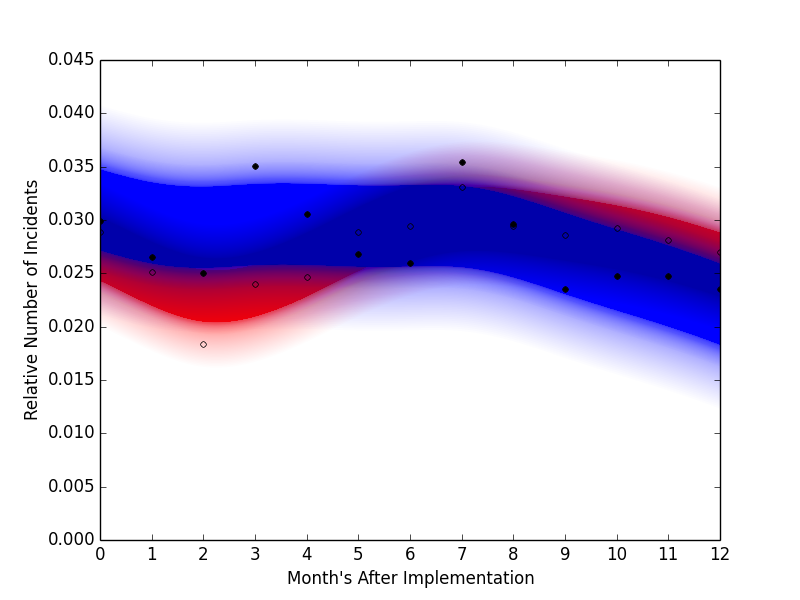
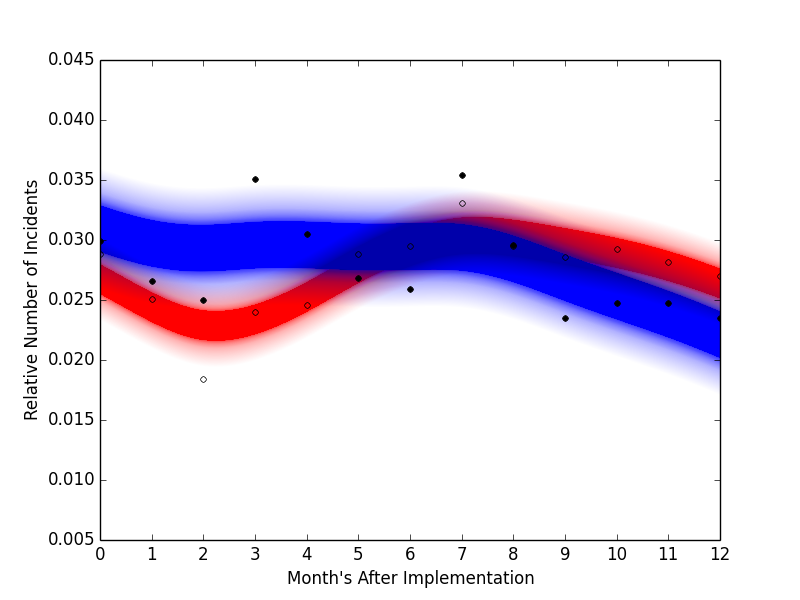
Changes in HTML, add Map, Two Choices from Input

diff --git a/app/templates/output_watchout.html b/app/templates/output_watchout.html
@@ -1,3 +1,5 @@
+<!doctype html>
+
 
 <!DOCTYPE html>
 <html lang="en">
@@ -7,9 +9,6 @@
     <meta name="viewport" content="width=device-width, initial-scale=1">
     <meta name="description" content="">
     <meta name="author" content="">
-    <meta name='viewport' content='initial-scale=1,maximum-scale=1,user-scalable=no' />
-    <script src='https://api.tiles.mapbox.com/mapbox.js/v2.1.5/mapbox.js'></script>
-    <link href='https://api.tiles.mapbox.com/mapbox.js/v2.1.5/mapbox.css' rel='stylesheet' />
     <link rel="icon" href="../../favicon.ico">
 
     <title>TopCop: Crime Intevention Analyzer</title>
@@ -59,27 +58,24 @@
 
   <div class="container">
     <div class="starter-template text-center">
-        <h2>Here's How Your Intervention Stacked Up</h2>
+        <h2>Watch out, {{Crime}} In Your Area Is Prone To:</h2>
         <p></p>
         <p></p>
         <p></p>
-        <h3>Your {{Crime}} Reduction Was Successful In:</h3>
-        <ul class = 'list-unstyled'>{% for name in Lower %}
+        <h3>Average Increased Rates During The:</h3>
+        <ul class = 'list-unstyled'>{% for name in HigherSeasons %}
         <li><h4><font color = 'Blue'>{{name}}</font></h4></li>
         {% endfor %}</ul>
-        <h3>Your {{Crime}} Was Still Greater Than Boston In:</h3>
-        <ul class = 'list-unstyled'>{% for lowername in Higher %}
+        <h3>Average Decreased Rates During The:</h3>
+        <ul class = 'list-unstyled'>{% for lowername in LowerSeasons %}
         <li><h4><font color = 'Red'>{{lowername}}</font></h4></li>
         {% endfor %}</ul>
     </div>
     
   </div> <!-- /.container-->
           
-      <div class="text-center">
-        
-       <h3> {{Crime}} trend over <br>
-       the 12 months post crime implementation</h3>
-       
+      <div class="text-center">     
+       <h3> {{Crime}} Trend Over Previous 3 Years</h3>
       </div>
  
       <div class= "media">
@@ -88,51 +84,34 @@
        </div>
       </div>
       
-      <div class = "start-template text-center" style = 'margin-bottom:50px'>
+      <div class = "start-template text-center">
         <p><font color = 'Blue'>Blue</font> indicates the confidence for your selected area's crime rates<br>
-        <font color = 'Red'>Red</font> indicates the confidence for all of Boston's crime rates<br>
-        </p>
-      </div>
-      
-      <div class = "start-template text-center" style = 'margin-bottom:30px'>
-        <h4> Here Are All The Crimes 12 Months After Your Implementation</h4>
+        <font color = 'Red'>Red</font> indicates the confidence for all of Boston's crime rates</p>
       </div>
     
      
+  
+  
+      <!--<table class="table table-hover">
+      <tr><th>Name</th><th>Country</th><th>Population</th></tr>
+      {% for city in cities %}
+      <tr><td>{{ city['name'] }}</td><td>{{ city['country']}}</td><td> {{ city['population'] }}</td></tr>
+      {% endfor %}
+      </table>
 
-      
- <link 
-        rel="stylesheet" 
-        href="http://cdn.leafletjs.com/leaflet-0.7/leaflet.css"
-    />
+
+     </div><!-- /.container -->
+
+    <!--<div class="container">
+      <div class="starter-template">
+        <h3>Another Result:</h3>
+        <p class="lead">Now we've taken the input and called a function from your package.<br>The result is {{the_result}}</p>
+      </div>-->
 
 
-    <div id="map" style="width: 600px; height: 400px; margin: auto"></div>
+      <script src="https://code.jquery.com/jquery-1.10.2.min.js"></script>
+      <script src="static/js/bootstrap.min.js"></script>
 
-    <script
-        src="http://cdn.leafletjs.com/leaflet-0.7/leaflet.js">
-    </script>
-
-    <script>
-
-	var planes = {{LatLongList|tojson}};
-
-        var map = L.map('map').setView([{{Latitude}},{{Longitude}}], 14);
-        mapLink = 
-            '<a href="http://openstreetmap.org">OpenStreetMap</a>';
-        L.tileLayer(
-            'http://{s}.tile.openstreetmap.org/{z}/{x}/{y}.png', {
-            attribution: '&copy; ' + mapLink + ' Contributors',
-            maxZoom: 18,
-            }).addTo(map);
-
-		for (var i = 0; i < planes.length; i++) {
-			marker = new L.marker([planes[i][1],planes[i][2]])
-				.bindPopup(planes[i][0])
-				.addTo(map);
-		}
-               
-    </script>
 
      </div><!-- /.container -->
 
@@ -144,6 +123,6 @@
     <script src="../../dist/js/bootstrap.min.js"></script>
     <!-- IE10 viewport hack for Surface/desktop Windows 8 bug -->
     <script src="../../assets/js/ie10-viewport-bug-workaround.js"></script>
-    
   </body>
 </html>
+

diff --git a/app/Watchout.py b/app/Watchout.py
@@ -146,15 +146,15 @@ def Watchout(Address,Radius,Crime,Year,Month):
     fig = plt.figure()
     plt.plot(WholeX_train, WholeY_train, 'k.',markerfacecolor='none', markersize=8, label='Observations')
     plt.fill(np.concatenate([wholexrand, wholexrand[::-1]]),
-            np.concatenate([WholeY_pred - 1.9600 * wholesigma,
-                           (WholeY_pred + 1.9600 * wholesigma)[::-1]]),
+            np.concatenate([WholeY_pred - wholesigma,
+                           (WholeY_pred + wholesigma)[::-1]]),
             alpha=.01, facecolor = 'red',ec='None', label='95% confidence interval')
    
    
     plt.plot(X_train, y_train, 'k.', markersize=8, label='Observations')
     plt.fill(np.concatenate([xrand, xrand[::-1]]),
-            np.concatenate([modely_pred - 1.9600 * sigma,
-                           (modely_pred + 1.9600 * sigma)[::-1]]),
+            np.concatenate([modely_pred - sigma,
+                           (modely_pred + sigma)[::-1]]),
             alpha=.01, facecolor = 'blue', ec='None', label='95% confidence interval')
     
     
@@ -170,7 +170,7 @@ def Watchout(Address,Radius,Crime,Year,Month):
     Dicthigher = []
     Dictlower = []
     
-    for i in range(int(Month),len(Reindex_counts)):
+    for i in range(1,36):
 	Radpred, Radmse = RadiusG.predict(i,eval_MSE=True)
 	Allpred, Allmse = AllG.predict(i,eval_MSE=True)
 	if (Radpred - 1.96 * np.sqrt(Radmse)) > (Allpred + 1.96 * np.sqrt(Allmse)):
@@ -183,9 +183,65 @@ def Watchout(Address,Radius,Crime,Year,Month):
 	
 
     for i in range (0,len(monthslower)):
-	Dictlower.append(Monthdict.get(monthslower[i]))	
+	Dictlower.append(Monthdict.get(monthslower[i]))
+    
+    Spring = [3,4,5,15,16,17,27,28,29]
+    Summer = [6,7,8,18,19,20,30,31,32]
+    Fall = [9,10,11,21,22,23,33,34,35]
+    Winter = [0,1,2,12,13,14,24,25,26,36]
+    
+    FallScore = 0
+    SummerScore = 0
+    SpringScore = 0
+    WinterScore = 0
+    
+    HigherSeasons = []
+    LowerSeasons = []
+    
+    for i in range (0,len(monthshigher)):
+	if monthshigher[i] in (Spring):
+	    SpringScore += 1
+	if monthshigher[i] in (Fall):
+	    FallScore += 1
+	if monthshigher[i] in (Summer):
+	    SummerScore += 1
+	if monthshigher[i] in (Winter):
+	    WinterScore += 1
+    
+    for i in range (0,len(monthslower)):
+	if monthslower[i] in (Spring):
+	    SpringScore += -1
+	if monthslower[i] in (Fall):
+	    FallScore += -1
+	if monthslower[i] in (Summer):
+	    SummerScore += -1
+	if monthslower[i] in (Winter):
+	    WinterScore += -1
+	
+    if SpringScore < 0:
+	LowerSeasons.append('Spring')
+    if FallScore < 0:
+	LowerSeasons.append('Fall')
+    if SummerScore < 0:
+	LowerSeasons.append('Summer')
+    if WinterScore < 0:
+	LowerSeasons.append('Winter')
+    
+    if SpringScore > 0:
+	HigherSeasons.append('Spring')
+    if FallScore > 0:
+	HigherSeasons.append('Fall')
+    if SummerScore > 0:
+	HigherSeasons.append('Summer')
+    if WinterScore > 0:
+	HigherSeasons.append('Winter')
 
-  
+    if not LowerSeasons:
+	LowerSeasons.append("Your crime's rate is, on average, not lower than Boston's Average")
+    
+    if not HigherSeasons:
+	HigherSeasons.append("Your crime's rate is, on average, not higher than Boston's Average")
+    
     import os.path
     if os.path.exists("/Users/Jenks/Desktop/Insight_Website/app/static/img/Position_model_image.png"):
         os.remove("/Users/Jenks/Desktop/Insight_Website/app/static/img/Position_model_image.png")
@@ -194,5 +250,7 @@ def Watchout(Address,Radius,Crime,Year,Month):
     fig.savefig("/Users/Jenks/Desktop/Insight_Website/app/static/img/Position_model_image.png")
     
     
-    return render_template("output_implementation.html",longitude = Longitude,Length=Crimelen,Radius = Radius,
-        Crimecount = Crimecount, Crime = Crimetopass, Higher = Dicthigher, Lower = Dictlower)
+    return render_template("output_watchout.html",longitude = Longitude,Length=Crimelen,Radius = Radius,
+        Crimecount = Crimecount, Crime = Crimetopass, Higher = Dicthigher, Lower = Dictlower,
+	HigherSeasons = HigherSeasons, LowerSeasons = LowerSeasons, FallScore = FallScore,
+	SpringScore = SpringScore, SummerScore = SummerScore, WinterScore = WinterScore)

diff --git a/app/Implementation.py b/app/Implementation.py
@@ -103,6 +103,10 @@ def Implement(Address,Radius,Crime,Year,Month):
     
     Crimecount = crimecounts.iloc[0]['ReptDist']
     
+    Latlong = CrimeSelected[['Incident','lat','lng']]
+   
+    LatLongList = map(list, Latlong.values)
+    
     
     Normalizingnumber = len(Crimetoanalyze.index)
     
@@ -140,20 +144,19 @@ def Implement(Address,Radius,Crime,Year,Month):
     WholeY_pred, wholeMSE = AllG.predict(wholexrand, eval_MSE=True)
     wholesigma = np.sqrt(wholeMSE)
 	
-      
    
     fig = plt.figure()
     plt.plot(WholeX_train, WholeY_train, 'k.',markerfacecolor='none', markersize=8, label='Observations')
     plt.fill(np.concatenate([wholexrand, wholexrand[::-1]]),
-            np.concatenate([WholeY_pred - 1.9600 * wholesigma,
-                           (WholeY_pred + 1.9600 * wholesigma)[::-1]]),
+            np.concatenate([WholeY_pred - wholesigma,
+                           (WholeY_pred + wholesigma)[::-1]]),
             alpha=.01, facecolor = 'red',ec='None', label='95% confidence interval')
    
    
     plt.plot(X_train, y_train, 'k.', markersize=8, label='Observations')
     plt.fill(np.concatenate([xrand, xrand[::-1]]),
-            np.concatenate([modely_pred - 1.9600 * sigma,
-                           (modely_pred + 1.9600 * sigma)[::-1]]),
+            np.concatenate([modely_pred - sigma,
+                           (modely_pred + sigma)[::-1]]),
             alpha=.01, facecolor = 'blue', ec='None', label='95% confidence interval')
     
     xmarkers = [Month,Month+1,Month+2,Month+3,Month+4,Month+5,Month+6,Month+7,Month+8,Month+9,Month+10,Month+11,Month+12]
@@ -171,7 +174,7 @@ def Implement(Address,Radius,Crime,Year,Month):
     Dicthigher = []
     Dictlower = []
     
-    for i in range(int(Month),len(Reindex_counts)):
+    for i in range(int(Month),37):
 	Radpred, Radmse = RadiusG.predict(i,eval_MSE=True)
 	Allpred, Allmse = AllG.predict(i,eval_MSE=True)
 	if (Radpred - 1.96 * np.sqrt(Radmse)) > (Allpred + 1.96 * np.sqrt(Allmse)):
@@ -180,11 +183,19 @@ def Implement(Address,Radius,Crime,Year,Month):
 		monthslower.append(i)
 		
     for i in range (0,len(monthshigher)):
-	Dicthigher.append(Monthdict.get(monthshigher[i]))
-	
+	Dicthigher.append(Monthdict.get(monthshigher[i]))	
 
     for i in range (0,len(monthslower)):
-	Dictlower.append(Monthdict.get(monthslower[i]))	
+	Dictlower.append(Monthdict.get(monthslower[i]))
+    
+    if not monthslower:
+	monthslower.append("None: Your implementation was ineffective")
+    
+    if not monthshigher:
+	monthshigher.append("Crime has not been higher than Boston's average rate")
+    
+    
+
 
   
     import os.path
@@ -194,5 +205,6 @@ def Implement(Address,Radius,Crime,Year,Month):
 
     fig.savefig("/Users/Jenks/Desktop/Insight_Website/app/static/img/Position_model_image.png")
     
-    return render_template("output_implementation.html",longitude = Longitude,Length=Crimelen,Radius = Radius,
-        Crimecount = Crimecount, Crime = Crimetopass, Higher = Dicthigher,Lower = Dictlower)
+    return render_template("output_implementation.html",Longitude = Longitude,Latitude = Latitude,
+	Length=Crimelen,Radius = Radius, Crimecount = Crimecount, Crime = Crimetopass,
+	Higher = Dicthigher,Lower = Dictlower, LatLongList = LatLongList)

diff --git a/app/Geocode.py b/app/Geocode.py
@@ -15,16 +15,4 @@ def googleGeocoding(address):
     geocode = json.loads(urllib.urlopen(geocodeURL).read())
     return geocode
   
-    Local_json = googleGeocoding('1695 commonwealth avenue, Boston,MA')
-  
-    Local_jsonStr = str(Local_json)
     
-    StartLoccoord = Local_jsonStr.find("u'location'")
-    EndLoccoord = Local_jsonStr.find("'address_components'")
-    
-    Coordstring = Local_jsonStr[StartLoccoord:EndLoccoord]
-    
-    Coordinates = re.findall(r"[-+]?\d*\.\d+|\d+",Coordstring)
-    
-    Latcoord_Final = Coordinates[0]
-    Longcoord_Final = Coordinates[1]

diff --git a/app/views.py b/app/views.py
@@ -1,4 +1,4 @@
-from flask import render_template, request
+from flask import render_template, request, make_response
 from app import app
 import pymysql as mdb
 from Geocode import googleGeocoding
@@ -9,6 +9,12 @@ from Watchout import Watchout
 @app.route('/input')
 def full_input():
   return render_template("input.html")
+
+@app.route('/mapimages/<path:filename>')
+def return_image (filename):
+    response = make_response(app.send_static_file(filename))
+    response.cache_control.max_age = 0
+    return response
 
 @app.route('/output')
 def which_output():
